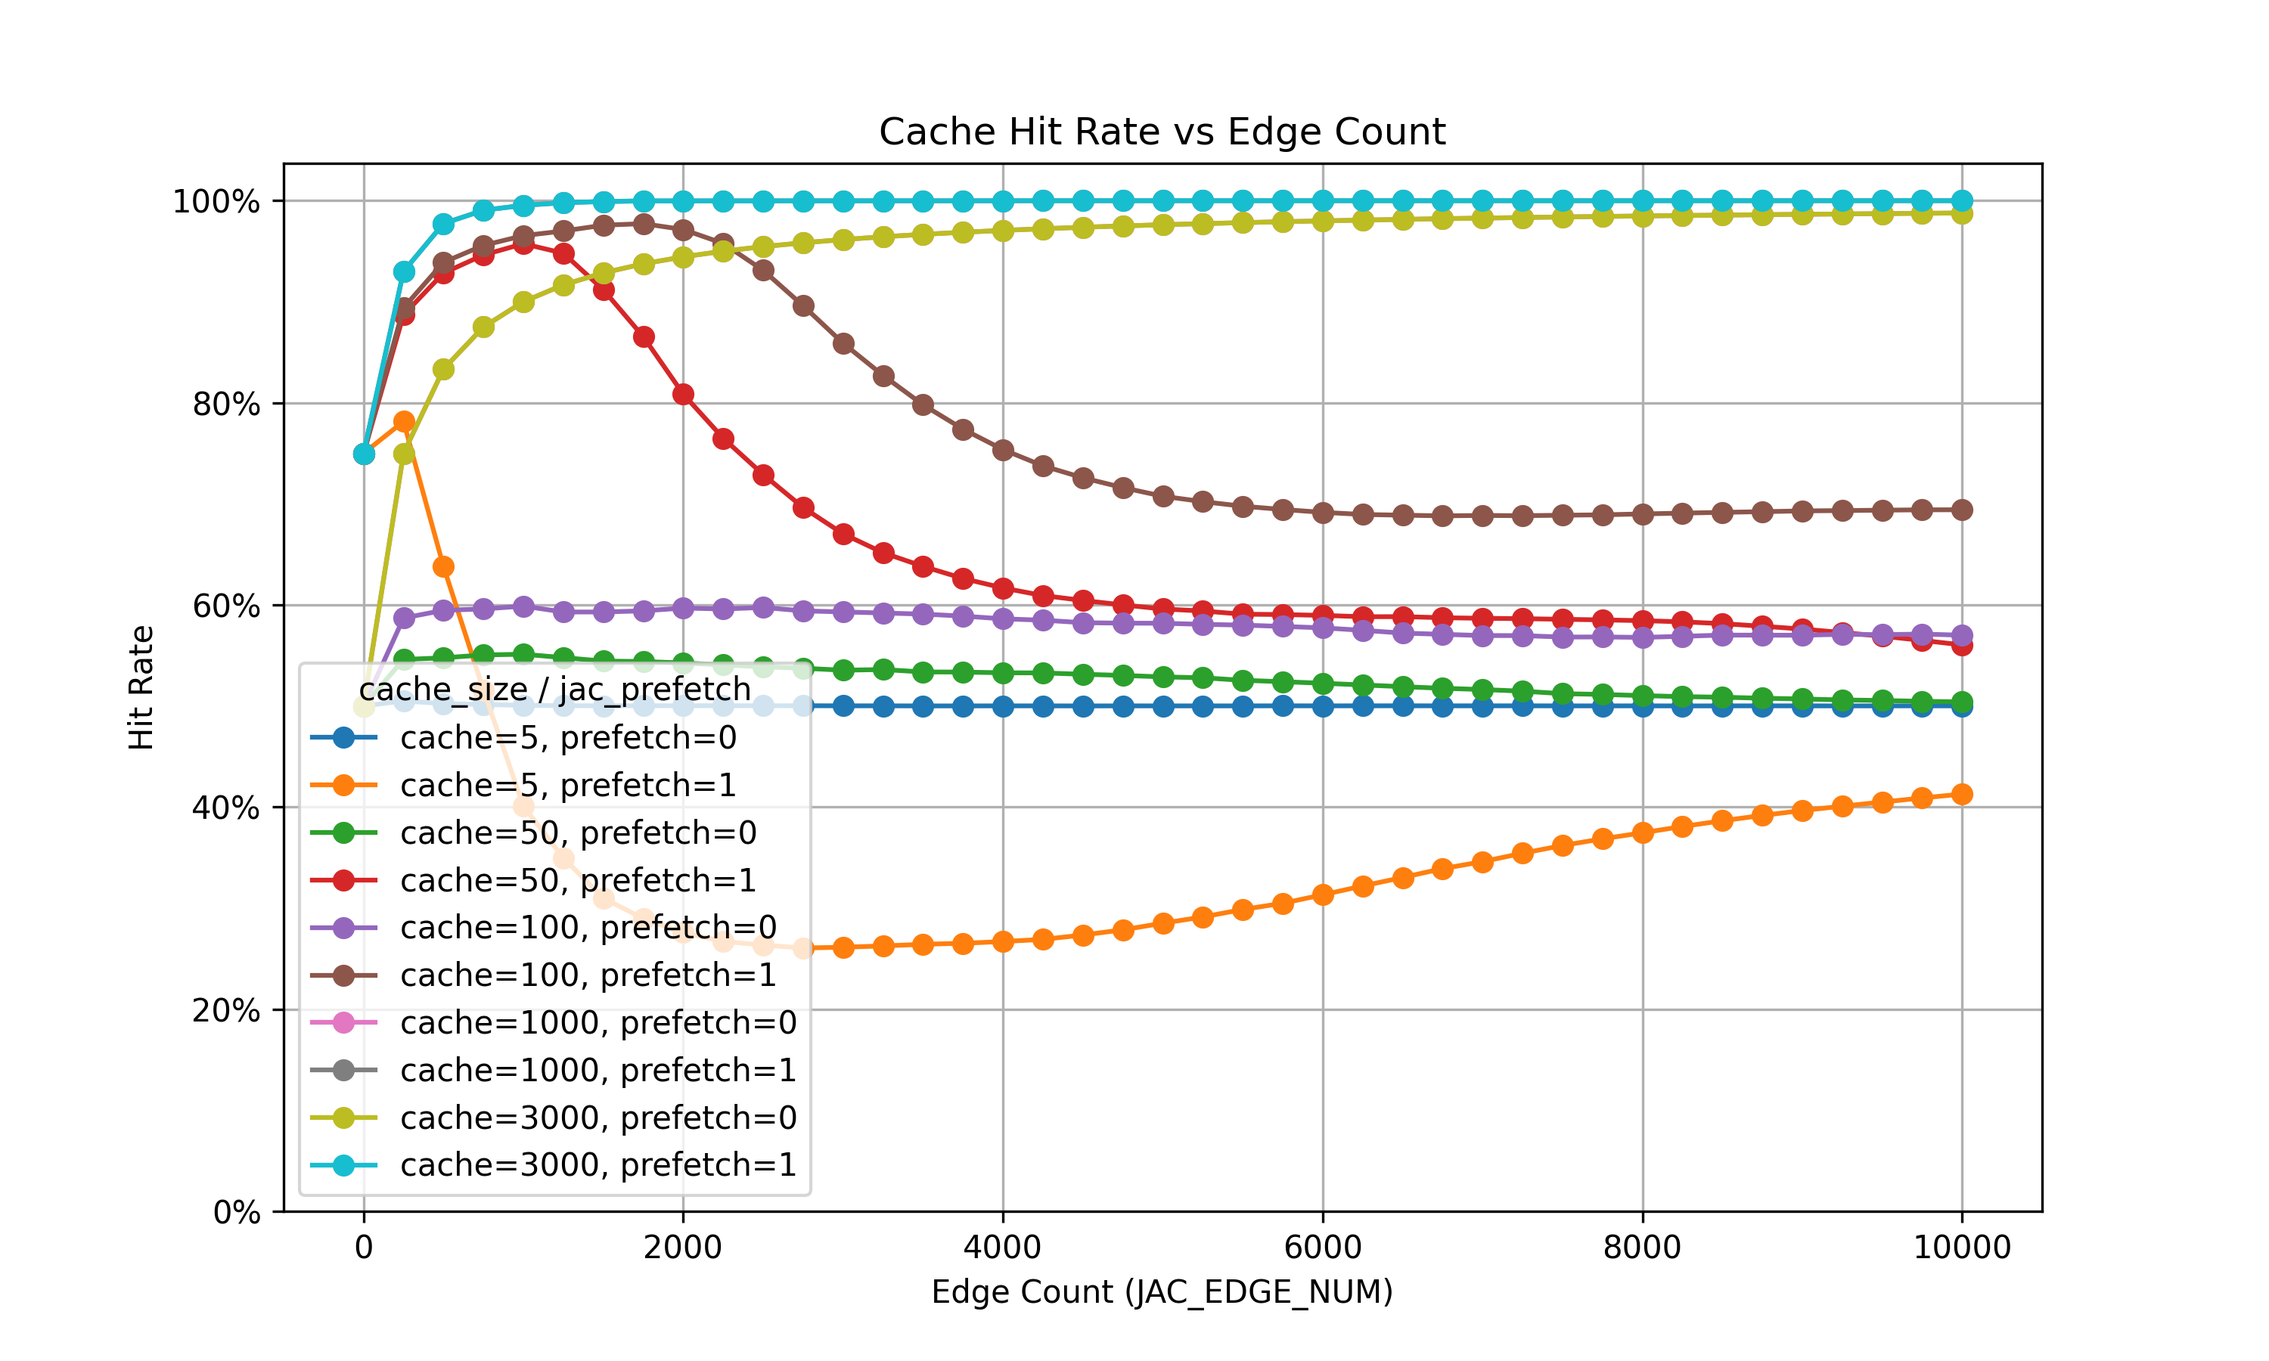
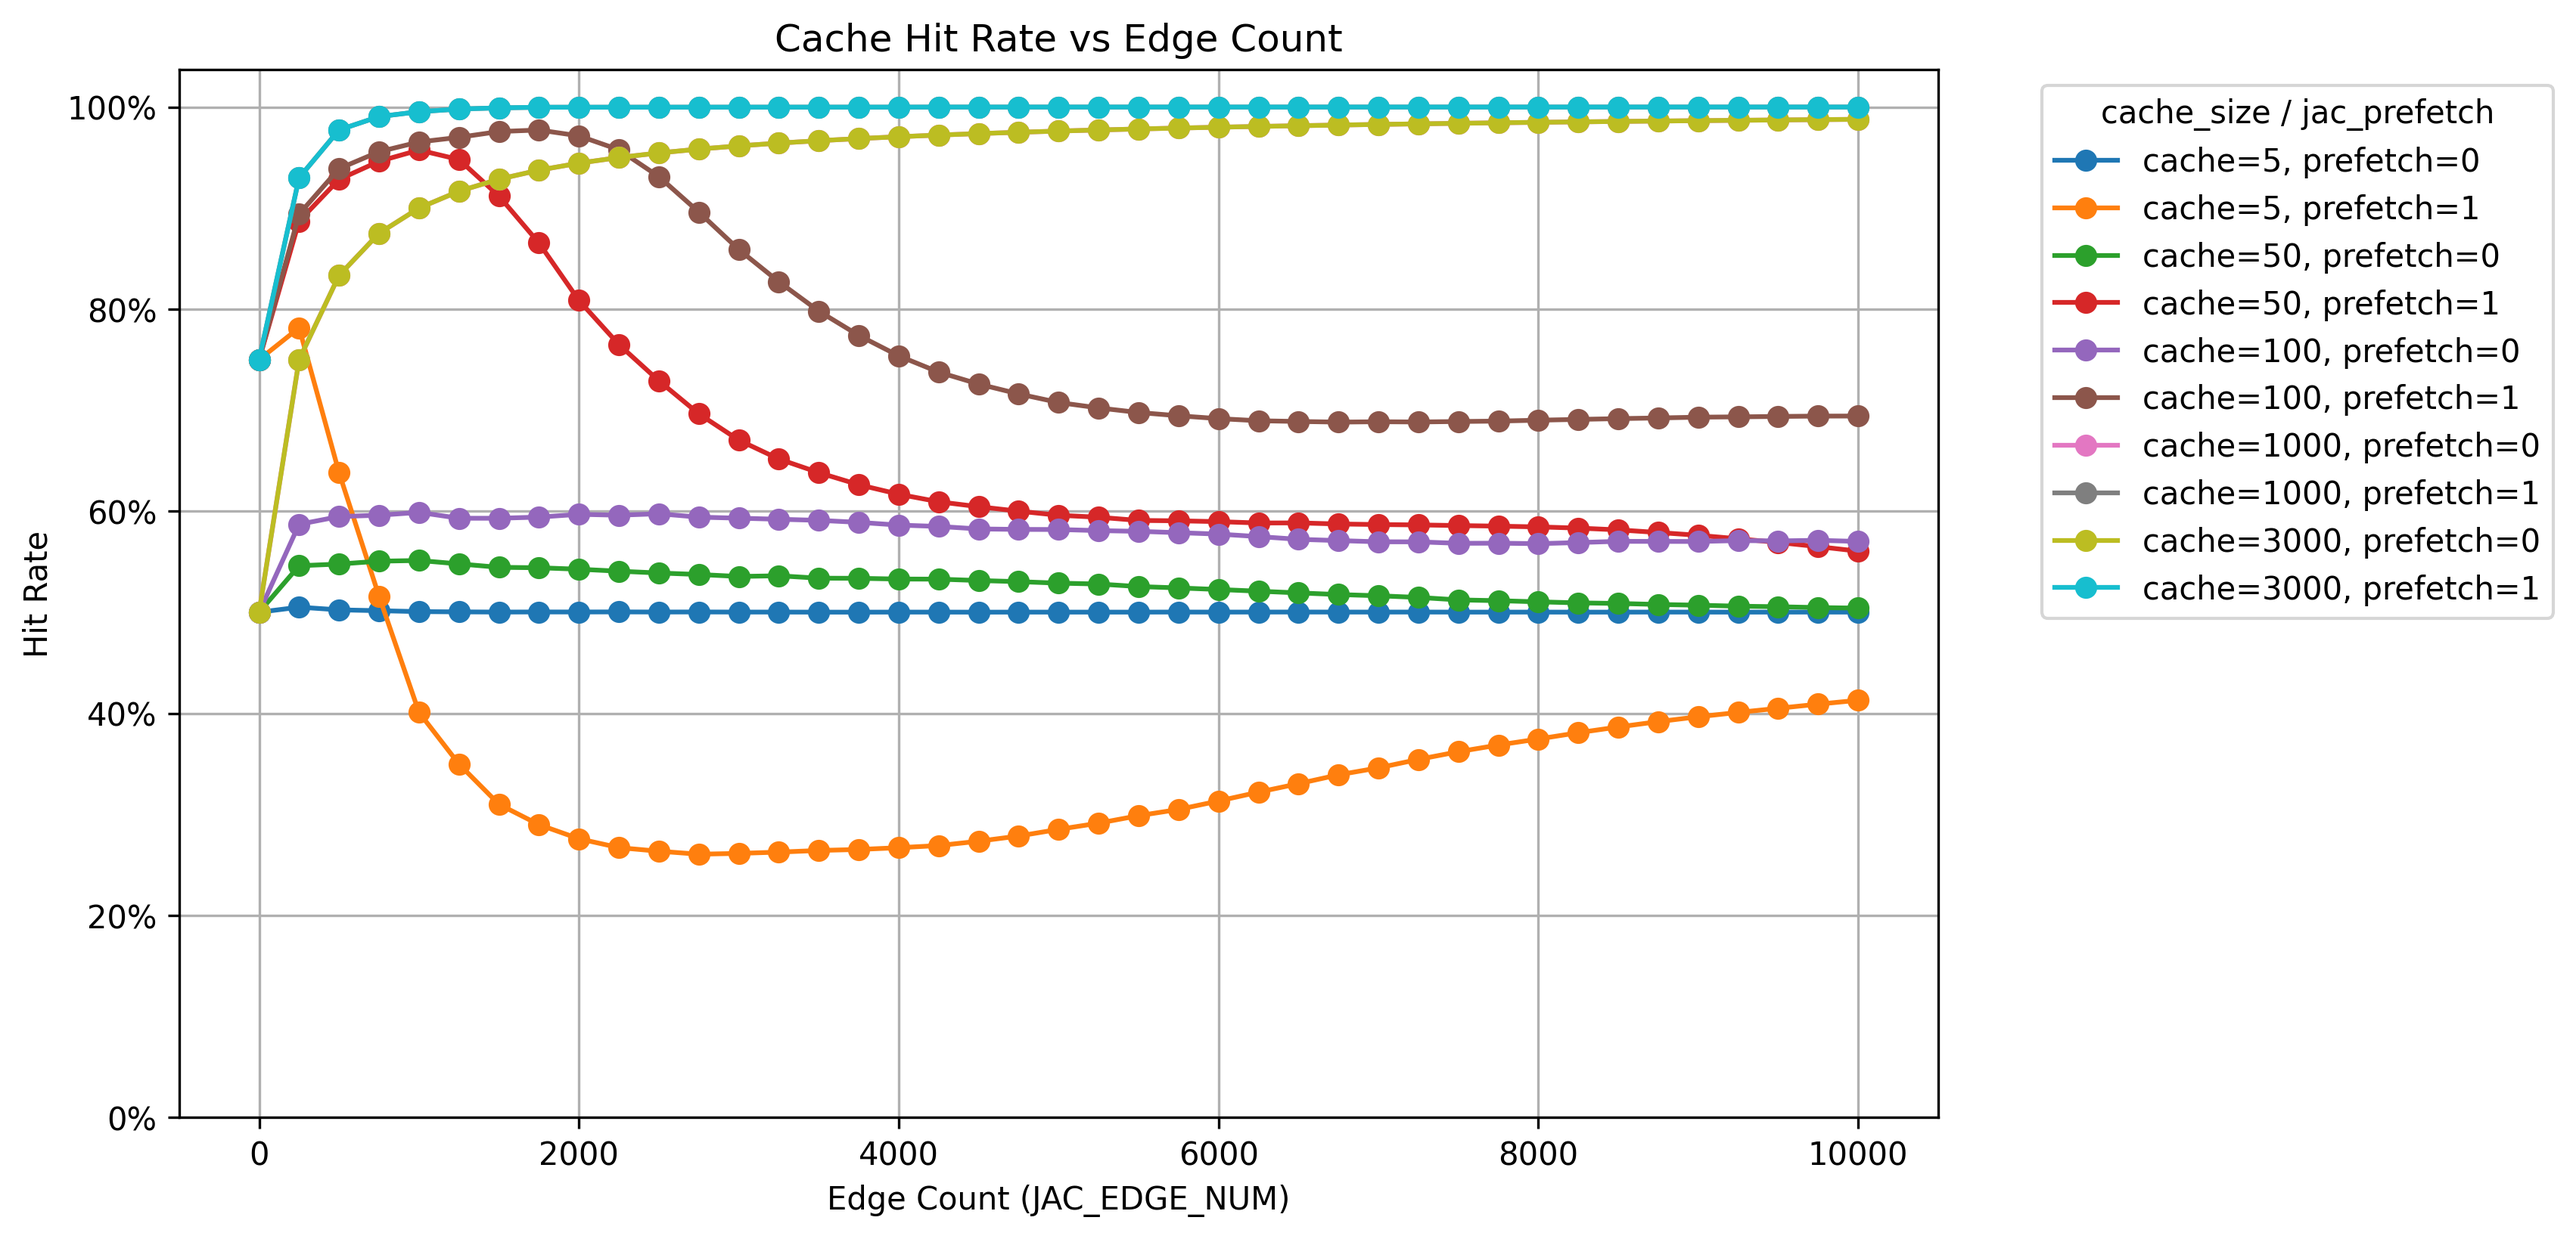
Improve plot layout by adjusting legend position and saving parameters for better visualization

diff --git a/cache_plot.py b/cache_plot.py
@@ -57,10 +57,10 @@ def plot_hit_rate_curves(
     ax.yaxis.set_major_formatter(PercentFormatter(1.0))
     ax.set_ylim(bottom=0)
     plt.grid(True)
-    plt.legend(title="cache_size / jac_prefetch")
+    plt.legend(title="cache_size / jac_prefetch", bbox_to_anchor=(1.05, 1), loc='upper left')
 
     if save_path:
-        plt.savefig(save_path, dpi=300)
+        plt.savefig(save_path, dpi=300, bbox_inches='tight')
         plt.close()
         print(f"Saved plot to {save_path}")
     else:
